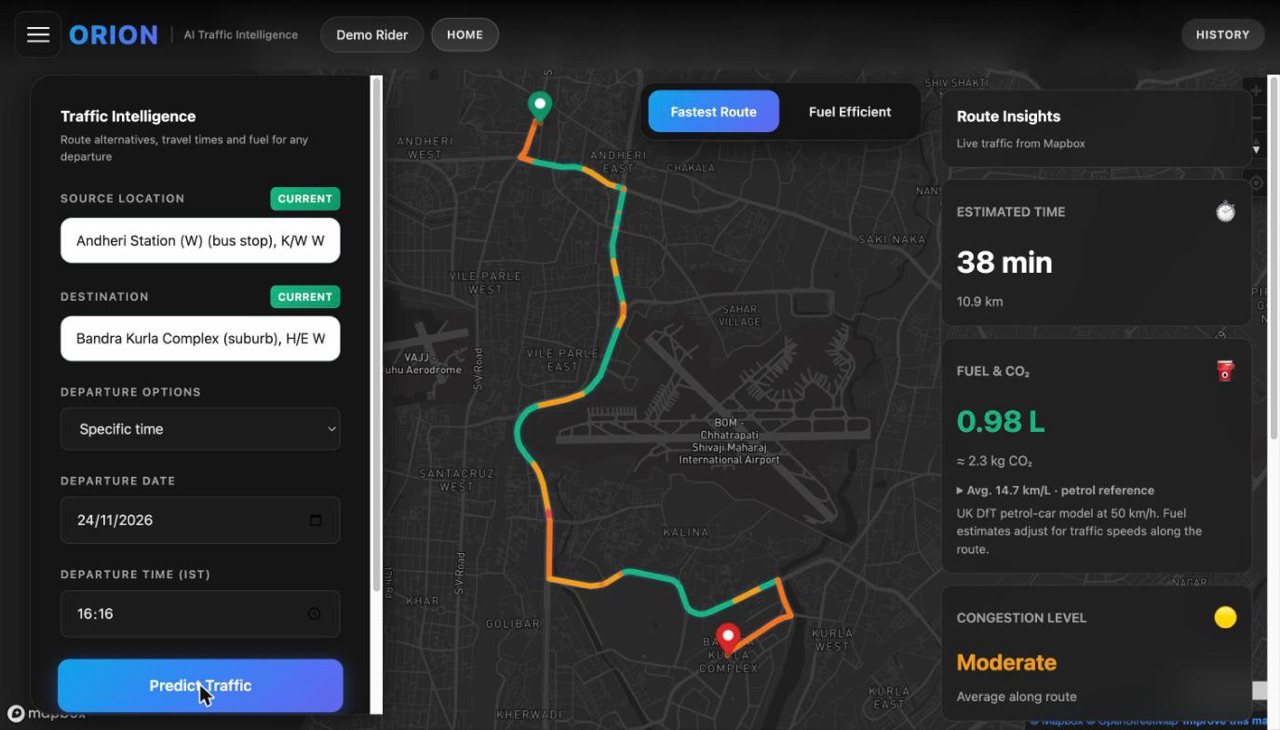
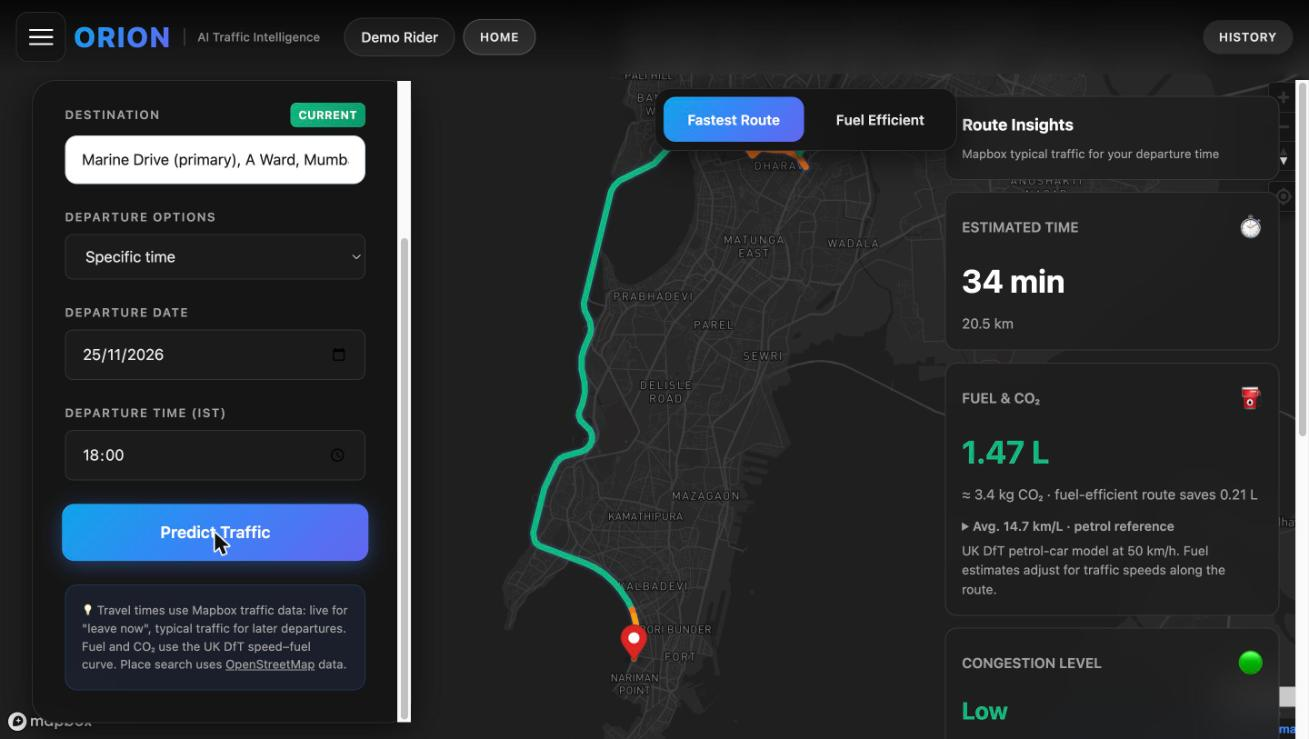
Show a README route demo where the fastest and fuel-efficient routes differ

diff --git a/README.md b/README.md
@@ -13,7 +13,7 @@
 ![Mapbox](https://img.shields.io/badge/Mapbox_GL-000000?logo=mapbox&logoColor=white)
 ![Vercel](https://img.shields.io/badge/Deployed_on_Vercel-000000?logo=vercel&logoColor=white)
 
-![Planning a trip from Andheri to BKC](docs/media/demo-plan-route.gif)
+![Planning a trip from Sion to Marine Drive, then switching to the fuel-efficient route](docs/media/demo-plan-route.gif)
 
 </div>
 
@@ -50,13 +50,17 @@ Open the [live app](https://orion-xi-lac.vercel.app), click **Sign up**, and fil
 
 ### 2. Plan a trip
 
-Open **Traffic Map**. Type a place in **Source location** and **Destination** (for example "Andheri station" and "Bandra Kurla Complex") and pick a suggestion. Choose a departure date and time, then press **Predict Traffic**.
+Open **Traffic Map**. Type a place in **Source location** and **Destination** (for example "Sion" and "Marine Drive") and pick a suggestion. Choose a departure date and time, then press **Predict Traffic**.
 
 The route appears on the map, coloured by congestion, with the estimated time, distance, fuel and CO₂ on the right.
 
-![Route result](docs/media/03-route-plan.jpg)
+Switch between **Fastest Route** and **Fuel Efficient** at the top of the map to compare the two. They are often different roads. For Sion to Marine Drive at 6 pm on a weekday, the fastest route takes the Coastal Road along the west coast. The fuel-efficient route cuts through the middle of the city: 5 minutes slower, but 5.7 km shorter and about 14% less fuel.
 
-Switch between **Fastest Route** and **Fuel Efficient** at the top of the map to compare alternatives.
+| Fastest: 34 min, 20.5 km, 1.47 L | Fuel efficient: 39 min, 14.8 km, 1.26 L |
+|---|---|
+| ![Fastest route via the Coastal Road](docs/media/03-route-plan.jpg) | ![Fuel-efficient route through the city](docs/media/03-route-eco.jpg) |
+
+These figures are Mapbox typical-traffic estimates and change with the day and time you pick.
 
 ### 3. Find the best time to leave
 

diff --git a/PLAN.md b/PLAN.md
@@ -281,3 +281,4 @@ Server-side search history sync, paid traffic APIs, native mobile, real-time pus
 - **2026-11-24** (Claude Opus 5.5) Deployed client and API to Vercel (project `orion`); attached orionmaps.xyz pending DNS.
 - **2026-11-24** (Claude Opus 5.5) Removed Google sign-in everywhere; verified email signup, login and `/me` locally and on Vercel.
 - **2026-11-24** (Claude Opus 5.5) Rewrote README as a usage guide with screenshots and GIFs (docs/media), set the GitHub description, homepage and topics.
+- **2026-11-24** (Claude Opus 5.5) Re-recorded the README route demo with Sion to Marine Drive, where the fastest and fuel-efficient routes take different roads.
